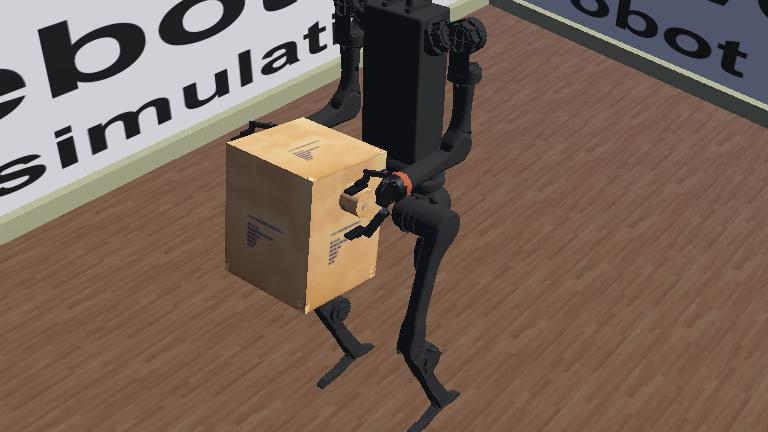
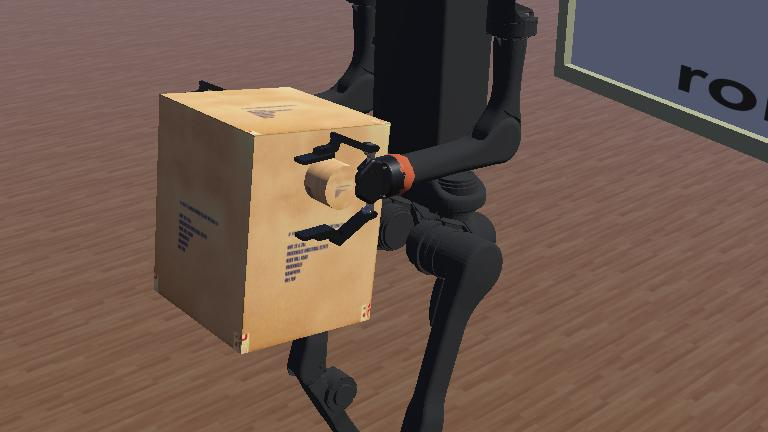
Add supervisor and all things worked right seperately; Issue see in todo;

diff --git a/src/unitree_wbc/example/src/main.cpp b/src/unitree_wbc/example/src/main.cpp
@@ -38,18 +38,20 @@ int main(int argc, char **argv) {
 }
 
 bool runWebots(ros::Publisher& joint_pos_pub, ros::Publisher& sim_info_pub){
-    // timing
-    int simCnt = 0;
-    double simTime = 0;
-    const int goStandCnt = 15;
-    const double goStandTime = goStandCnt * SAMPLE_TIME;
-    const int simStopCnt  = goStandCnt + 1000000;
-    const double simStopTime = simStopCnt * SAMPLE_TIME;
-    
     // webots
     WebotsRobot bipedWebots;
     bipedWebots.initWebots();
     webotsState robotStateSim;
+    ConfigParams prm;
+
+    // timing
+    int simCnt = 0;
+    double time = 0;
+    double simTime = 0;
+    const int goStandCnt = prm.standingTime;
+    const double goStandTime = goStandCnt * SAMPLE_TIME;
+    const int simStopCnt  = goStandCnt + 1000000;
+    const double simStopTime = simStopCnt * SAMPLE_TIME;
  
     // controller
     RobotController RobotController;
@@ -95,10 +97,31 @@ bool runWebots(ros::Publisher& joint_pos_pub, ros::Publisher& sim_info_pub){
             bipedWebots.setMotorPos(standPosCmd);//设置初始位置曲腿
 
         }else if (simCnt < simStopCnt){
-            //dynamic control get torque
+
             RobotController.update(simTime-goStandTime, robotStateSim);
             RobotController.getValueTauOpt(jointToqCmd);
+            bipedWebots.setMotorTau(jointToqCmd);
 
+            //===============================================================
+            // @todo: add gripper control ,
+            //        but the supervisor has conflict with the main control loop;
+            //        when adding this segment, the robot controller will crush;
+            //24\11\05: Bring forward
+            //
+            time+=DT;
+            if (time < 0.05 || time >= 0.1){
+                bipedWebots.lgDownMotor->setSFFloat(prm.testGripperAngle1);
+                bipedWebots.lgUpMotor->setSFFloat(prm.testGripperAngle1);
+                bipedWebots.rgDownMotor->setSFFloat(prm.testGripperAngle1);
+                bipedWebots.rgUpMotor->setSFFloat(prm.testGripperAngle1);
+            }
+            if(time >= 0.05&& time < 0.1){
+                bipedWebots.lgDownMotor->setSFFloat(prm.testGripperAngle2);
+                bipedWebots.lgUpMotor->setSFFloat(prm.testGripperAngle2);
+                bipedWebots.rgDownMotor->setSFFloat(prm.testGripperAngle2);
+                bipedWebots.rgUpMotor->setSFFloat(prm.testGripperAngle2);            
+            }
+            //===============================================================
          
             //Integrate acc for pos
             // if (flagStartCtrl == 0){
@@ -125,7 +148,6 @@ bool runWebots(ros::Publisher& joint_pos_pub, ros::Publisher& sim_info_pub){
 //-----------------------------------------------------------------
 //universal set toq / pos
             // jointToqCmd(16) = 0;
-            bipedWebots.setMotorTau(jointToqCmd);
             // bipedWebots.setMotorPos(jointPosInteg);
 
 
@@ -148,12 +170,9 @@ bool runWebots(ros::Publisher& joint_pos_pub, ros::Publisher& sim_info_pub){
 //-----------------------------------------------------------------
 
         }else{
-            // keep current position
             RobotController.getValuePosCurrent(standPosCmd);
             bipedWebots.setMotorPos(standPosCmd);
         }
-
-        // stop simulation
         if (simTime > simStopTime){
             break;
         }

diff --git a/src/unitree_wbc/example/include/configParams.h b/src/unitree_wbc/example/include/configParams.h
@@ -6,6 +6,10 @@ using json = nlohmann::json;
 
 
 struct ConfigParams {
+    // For main function
+    double testGripperAngle1, testGripperAngle2;
+    int standingTime;
+
     // PArams for task control
     double kpPelvisR, kpPelvisP, kpPelvisY, kdPelvisR, kdPelvisP, kdPelvisY;
     double kpPelvisX, kpPelvisYY, kpPelvisZ, kdPelvisX, kdPelvisYY, kdPelvisZ;
@@ -283,5 +287,9 @@ struct ConfigParams {
         armForward = jsonData["armForward"];
         armUpDown = jsonData["armUpDown"];
         armAside = jsonData["armAside"];
+
+        standingTime = jsonData["standingTime"];
+        testGripperAngle1 = jsonData["testGripperAngle1"];
+        testGripperAngle2 = jsonData["testGripperAngle2"];        
     }
 };

diff --git a/src/unitree_wbc/example/include/webotsInterface.h b/src/unitree_wbc/example/include/webotsInterface.h
@@ -91,6 +91,10 @@ struct webotsState
  */
 class WebotsRobot{
 public:
+    Field* lgUpMotor;
+    Field* lgDownMotor;
+    Field* rgUpMotor;
+    Field* rgDownMotor;
     webots::Supervisor *robot = new Supervisor();
 
     void initWebots();
@@ -122,8 +126,11 @@ private:
     Node* Pelvis;
     Node* SoleLeft;
     Node* SoleRight;
-    // Node* ArmHandLeft;
-    // Node* ArmHandRight;
+
+    Node* ArmHandLeft;
+    Node* ArmHandRight;
+    Node* lGripper;
+    Node* rGripper;
 
     std::vector<Derivative> dRpy;
     std::vector<Derivative> dJnt;

diff --git a/src/unitree_wbc/example/src/webotsInterface.cpp b/src/unitree_wbc/example/src/webotsInterface.cpp
@@ -91,6 +91,14 @@ void WebotsRobot::initWebots()
         dJnt.at(i).init(SAMPLE_TIME, 1e-3, 0.);
     }
 
+    // Gripper pos control;
+    lGripper = robot->getFromDef("LEFT_GRIPPER");
+    rGripper = robot->getFromDef("RIGHT_GRIPPER");
+    rgUpMotor = rGripper->getField("positionUp");
+    rgDownMotor = rGripper->getField("positionLow");
+    lgUpMotor = lGripper->getField("positionUp");
+    lgDownMotor = lGripper->getField("positionLow");    
+
 }
 
 void WebotsRobot::deleteRobot()
